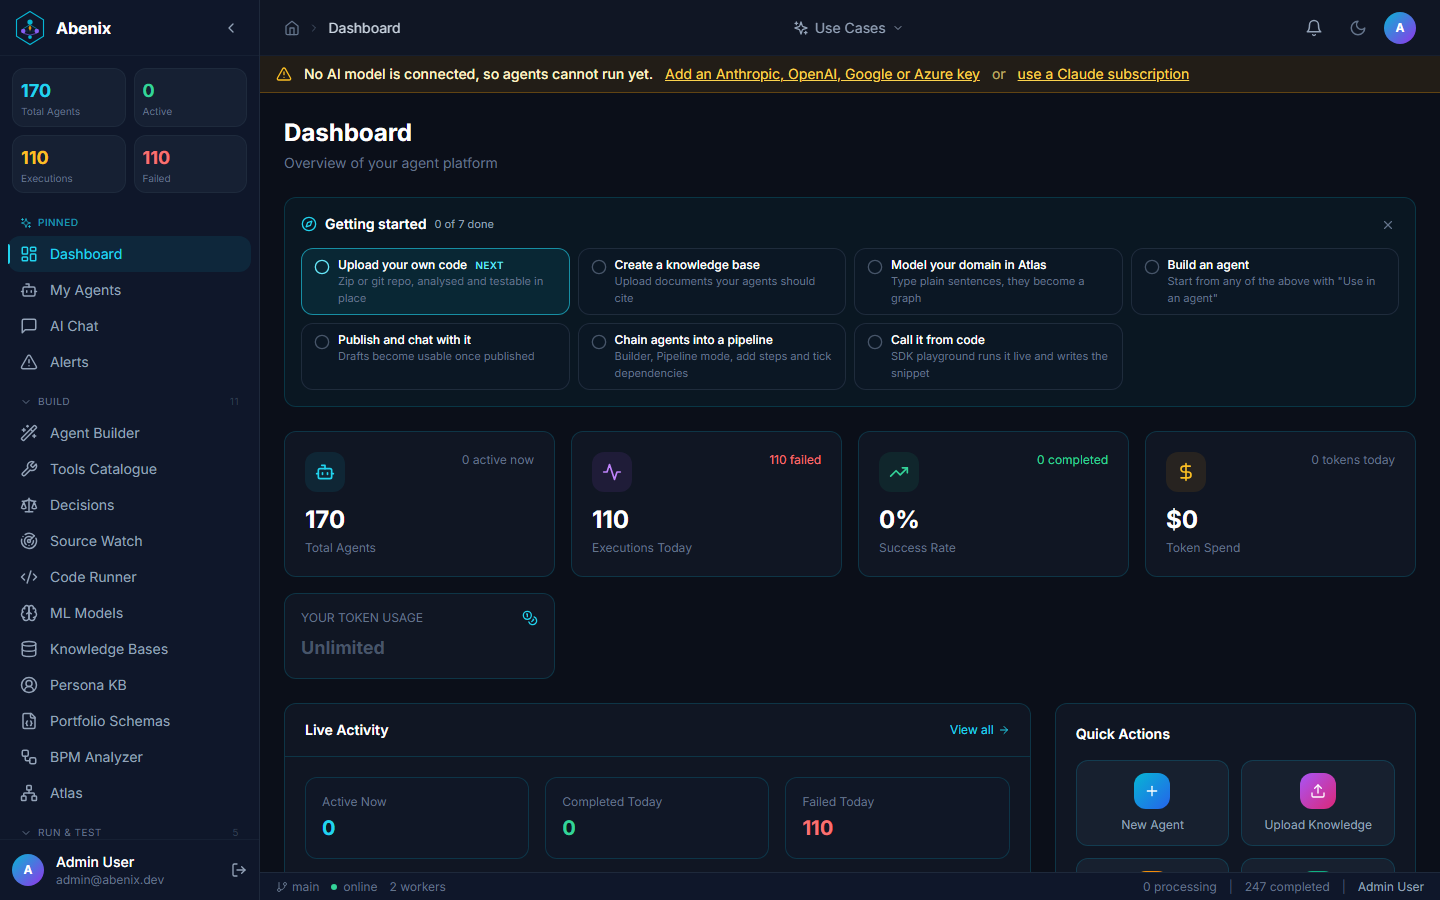
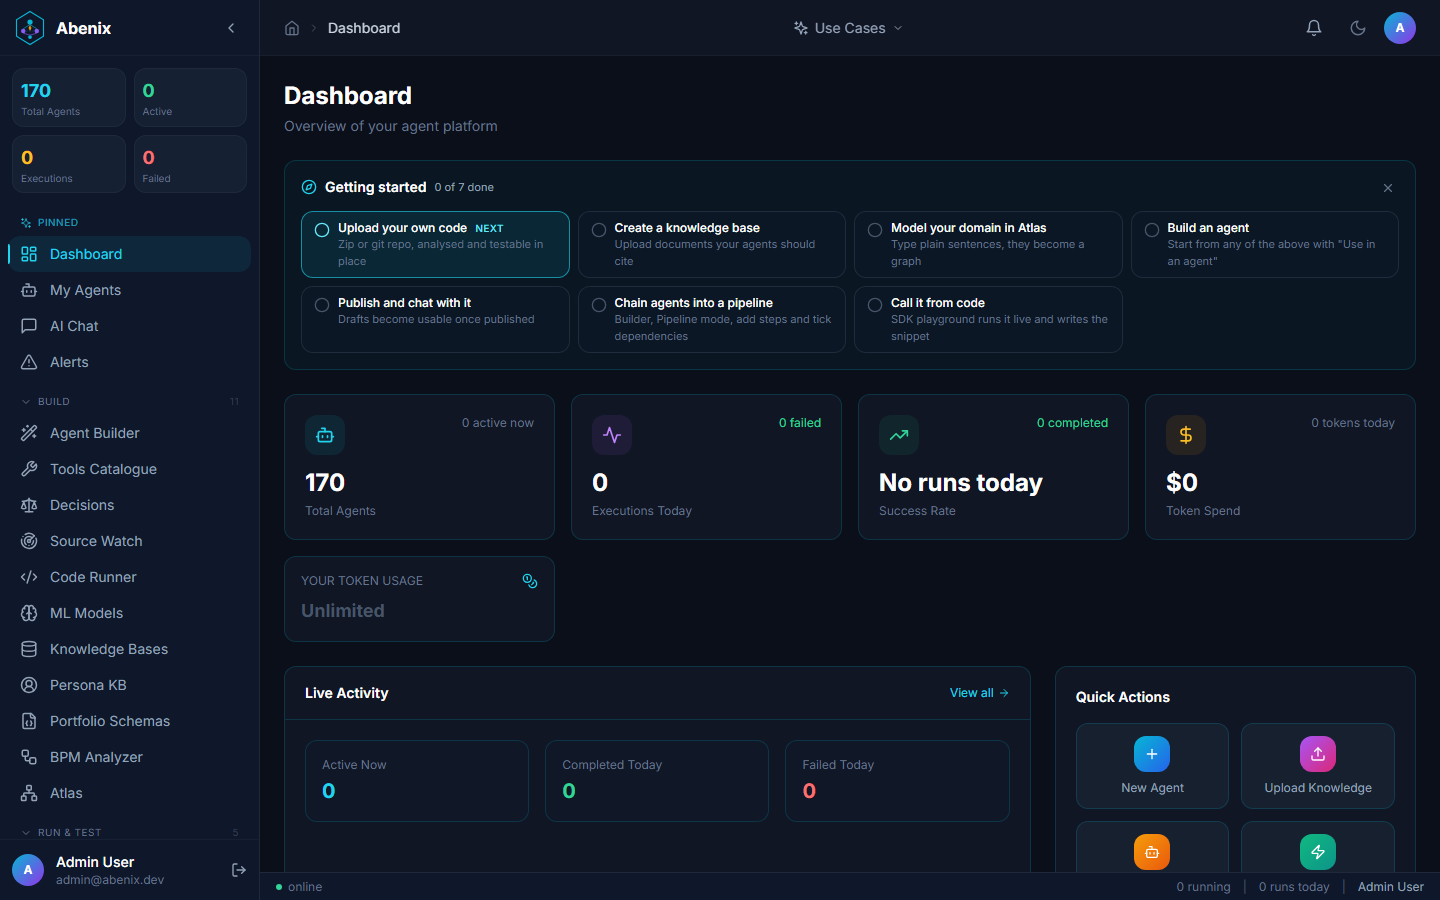
docs/ci follow-on for v2.5.3
### Added

### Changed

### Fixed
- A Claude subscription token with subscription mode switched off no longer counts as a connected model. The provider check now follows the runtime's rule, so the no-model banner and the model picker match what a run can actually use.

diff --git a/apps/api/app/routers/llm_models.py b/apps/api/app/routers/llm_models.py
@@ -121,6 +121,18 @@ async def _probe_providers(db: AsyncSession) -> dict[str, dict[str, Any]]:
     # The subscription token lives under its own settings key, not the
     # `provider.<name>.api_key` convention the API-key providers use.
     sub_token = ""
+    sub_enabled: str | None = None
+    try:
+        sub_enabled = (
+            await db.execute(
+                text(
+                    "SELECT value FROM platform_settings "
+                    "WHERE key = 'llm.subscription.enabled'"
+                )
+            )
+        ).scalar_one_or_none()
+    except Exception as exc:
+        logger.debug("subscription switch probe skipped: %s", exc)
     try:
         sub_token = str(
             (
@@ -160,7 +172,15 @@ async def _probe_providers(db: AsyncSession) -> dict[str, dict[str, Any]]:
                 "",
             )
             missing_reason = f"{chosen_env} not set"
-        if _is_real_key(env_val) or _is_real_key(db_val):
+        usable = _is_real_key(env_val) or _is_real_key(db_val)
+        # same rule as the runtime: a stored switch wins, with none a token means on
+        if provider == "claude_subscription" and usable and sub_enabled is not None:
+            if str(sub_enabled).strip().lower() not in _TRUTHY:
+                usable = False
+                missing_reason = (
+                    "subscription mode is switched off in Admin → LLM Settings"
+                )
+        if usable:
             result[provider] = {"configured": True, "reason": None}
         else:
             result[provider] = {

diff --git a/CHANGELOG.md b/CHANGELOG.md
@@ -45,6 +45,7 @@
 - `deploy.sh forwards` warns when the web port it forwards is not one the API accepts, and gives the command that fixes it. Moving the web forward to another port left sign in failing with only "Connection failed".
 - The status bar at the bottom of every page showed made-up numbers: a git branch, "2 workers", "0 processing" and "247 completed" were fixed text. It now shows whether the API answers, runs in progress and runs today from the platform, and failures today when there are any.
 - The no-model banner clears within about 40 seconds of a key or subscription being added, and at once when the user comes back to the tab. The provider check was cached for a minute and the banner rechecked once a minute.
+- A Claude subscription token with subscription mode switched off no longer counts as a connected model. The provider check now follows the runtime's rule, so the no-model banner and the model picker match what a run can actually use.
 
 ## v2.5.2 — 2026-10-03
 

diff --git a/README.md b/README.md
@@ -80,7 +80,7 @@ Same agent. Same definition. Cloud or edge. Built for the long-running, knowledg
 
 <p align="center">
   <img src="docs/screenshots/01-dashboard.png" alt="Abenix Dashboard" width="100%" />
-  <br/><em>A fresh install, first sign in: the getting-started checklist, live activity, and a prompt to connect a model before the first run</em>
+  <br/><em>A fresh install from the one-command setup, signed in for the first time with a model connected: the getting-started checklist and live activity</em>
 </p>
 
 ---
